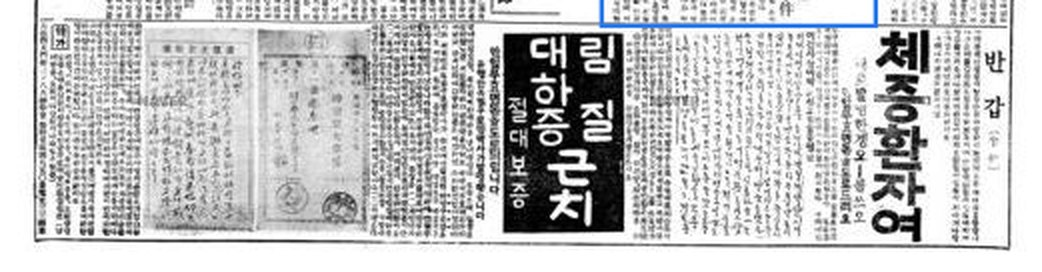
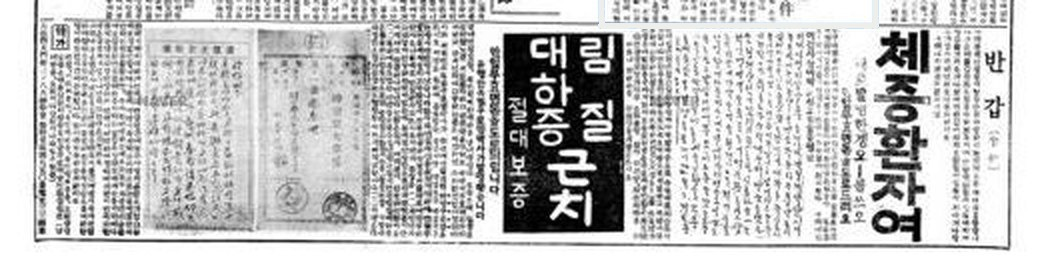
폰판 지면 장치에 「아래칸 · 그날의 광고」 넣음 · 1931.8.13 광고칸의 파란 선 지움
Claude-Session: https://claude.ai/code/session_01X1y5x5ur2CZT5SHiYxRsCA

Changed region(s): [[0.5528, 0.0, 0.8599, 0.1176]]

diff --git a/yk-mbook.js b/yk-mbook.js
@@ -130,8 +130,18 @@
         h = '<div class="pp-hd"><small>' + (cfg.sec || '사회면') + ' | ' + t0(a.d) + ' | ' + t0(a.day) + '</small>' + (a.mark ? '<i class="stamp">' + a.mark + '</i>' : '') + '</div>' +
           '<div class="mb-seg pp-seg three"><button data-m="scan" class="' + (mode === 'scan' ? 'on' : '') + '">원문 지면</button><button data-m="now" class="' + (mode === 'now' ? 'on' : '') + '">오늘 말로 읽기</button><button data-m="sum" class="' + (mode === 'sum' ? 'on' : '') + '">간추려 읽기</button></div>';
         if (mode === 'scan') {
-          h += '<button class="pp-scan" type="button" data-zoom="' + src + '" data-cap="동아일보 ' + a.date + ' 원문 지면"><img src="' + src + '" alt="동아일보 ' + a.date + ' 원문 지면"><span>눌러 크게 보기</span></button>' +
-            '<p class="pp-cap">원 긔사 · 동아일보 · ' + cfg.era + ' ' + t0(a.d) + ' — 테두리 친 곳이 그날 실린 긔사이오.</p>';
+          var key = String(a.img).replace(/\.[a-z]+$/, '').replace(/_0\d$/, ''), AD = cfg.ads && cfg.ads[String(a.img).replace(/\.[a-z]+$/, '')];
+          h += '<div class="pp-scanbox"><button class="pp-scan" type="button" data-zoom="' + src + '" data-cap="동아일보 ' + a.date + ' 원문 지면"><img src="' + src + '" alt="동아일보 ' + a.date + ' 원문 지면"><span>눌러 크게 보기</span></button>' +
+            (AD ? '<button type="button" class="pp-cut" style="top:' + (AD.top * 100) + '%;height:' + (AD.h * 100) + '%" data-goad>아래칸 · 그날의 광고 ▾</button>' : '') + '</div>' +
+            '<p class="pp-cap">원 긔사 · 동아일보 · ' + cfg.era + ' ' + t0(a.d) + ' — 테두리 친 곳이 그날 실린 긔사이오.' + (AD ? ' 붉은 절취선 안은 가튼 장 맨 아래칸의 광고요.' : '') + '</p>';
+          if (AD) {
+            var y = a.date.slice(0, 4), m = +a.date.slice(5, 7), dd = +a.date.slice(8, 10);
+            h += '<section class="pp-ad" id="ppAd"><h4>아래칸 · 그날의 광고</h4><p class="pp-ad-k">그날, 가튼 장 아래칸 · ' + y + '년 ' + m + '월 ' + dd + '일 · 동아일보</p>' +
+              '<button type="button" class="pp-adimg" data-zoom="' + AD.img + '" data-cap="' + y + '년 ' + m + '월 ' + dd + '일 지면 맨 아래칸 광고"><img src="' + AD.img + '" alt="' + y + '년 ' + m + '월 ' + dd + '일 지면 아래칸 광고" loading="lazy"><span>눌러 크게 보기</span></button>' +
+              '<p class="pp-ad-cap">' + (AD.cap || (y + '년 ' + m + '월 ' + dd + '일 지면, 그 맨 아래칸이오. 가튼 날 가튼 장에 실린 진짜 광고들이오.')) + '</p>' +
+              '<p class="pp-ad-say">' + (AD.say || '가튼 장 우에선 사건을 쫏고, 아래칸에선 물건을 팔앗소.') + '</p>' +
+              (cfg.shop ? '<a class="pp-ad-go" href="' + cfg.shop + '">그 시절 광고 상뎜으로 →</a>' : '') + '</section>';
+          }
         } else if (mode === 'sum') {
           var Q = ['이 보도의 요뎜은 무엇이오?', '그때 형편은 엇더하엿소?', '긔록에서 눈여겨볼 대목은 어대요?'];
           h += '<article class="pp-art pp-short"><p class="pp-sec">간추려 읽기 · ' + t0(a.d) + '</p><h3>' + a.title + '</h3><ol class="pp-sum big">' + a.sum.map(function (x) { return '<li>' + x + '</li>'; }).join('') + '</ol>' +
@@ -169,7 +179,8 @@
     D.addEventListener('click', function (e) {
       var t = e.target.closest('#ppTabs button'); if (t) { I = +t.dataset.i; render(); return; }
       var m = e.target.closest('.pp-seg button'); if (m) { mode = m.dataset.m; render(); return; }
-      if (e.target.closest('#ppBody [data-next]')) { I = Math.min(A.length - 1, I + 1); render(); }
+      if (e.target.closest('#ppBody [data-next]')) { I = Math.min(A.length - 1, I + 1); render(); return; }
+      if (e.target.closest('#ppBody [data-goad]')) { e.preventDefault(); e.stopPropagation(); var ad = $('#ppAd'), bd = $('#ppBody'); if (ad) bd.scrollTo({ top: ad.offsetTop - 10, behavior: 'smooth' }); }
     });
     W.addEventListener('mb:open', function (e) { if (e.detail === 'shPaper') render(); });
     paintN();

diff --git a/yk-mbook.css b/yk-mbook.css
@@ -373,3 +373,19 @@ html.mb-lock,html.mb-lock body{overflow:hidden}
 .pp-qa b{display:inline-grid;place-items:center;width:22px;height:22px;margin-right:8px;background:var(--ink);color:#fff;font:700 11px/1 var(--sans)}
 .pp-qa p b{background:var(--red)}
 .pp-qa p{padding:0 0 14px;font:400 15px/1.8 var(--sans)!important}
+/* 아래칸 · 그날의 광고 */
+.pp-scanbox{position:relative}
+.pp-cut{position:absolute;left:1.5%;width:97%;border:2px dashed var(--red);background:rgba(179,38,30,.07);display:flex;align-items:flex-start;justify-content:flex-end;padding:0;z-index:2}
+.pp-cut::after{content:"";}
+.pp-cut{font:700 11px/1 var(--sans);color:#fff;letter-spacing:.06em}
+.pp-cut{color:transparent}
+.pp-cut::before{content:"✂ 아래칸 · 그날의 광고 ▾";position:absolute;right:-2px;top:-24px;padding:6px 8px;background:var(--red);color:#fff;font:700 11px/1 var(--sans);letter-spacing:.06em;white-space:nowrap}
+.pp-ad{margin-top:22px;padding:16px 14px 18px;border:2px dashed var(--red);background:#fff}
+.pp-ad h4{margin:0 0 4px!important;color:var(--red)}
+.pp-ad-k{font:500 11px/1.5 var(--sans);color:var(--mute);margin-bottom:10px}
+.pp-adimg{position:relative;display:block;width:100%}
+.pp-adimg img{width:100%;filter:grayscale(1) contrast(1.12)}
+.pp-adimg span{position:absolute;right:6px;bottom:6px;padding:5px 7px;background:rgba(14,14,14,.85);color:#fff;font:500 10.5px/1 var(--sans)}
+.pp-ad-cap{margin-top:12px;font:400 14px/1.8 var(--serif);color:#222}
+.pp-ad-say{margin-top:10px;padding-left:12px;border-left:3px solid var(--red);font:700 15px/1.7 var(--serif)}
+.pp-ad-go{display:inline-block;margin-top:14px;font:500 12.5px/1 var(--sans);color:var(--ink);border-bottom:1px solid var(--ink);padding-bottom:3px;text-decoration:none}

diff --git a/case-jukcheomjeong/m-jk-book.js b/case-jukcheomjeong/m-jk-book.js
@@ -103,7 +103,12 @@
   var IMG = './image/Jukcheomjeong/';
 
   /* 第二章 · 일곱 날의 지면 (공통 장치) */
-  W.mb.paper({ arts: ARTS, words: WORDS, imgBase: IMG + 'articles-toned/', era: '소화 팔 년', goto: 'ch5',
+  var ADB = '../assets/ads/day/jk_';
+  W.mb.paper({ arts: ARTS, words: WORDS, imgBase: IMG + 'articles-toned/', era: '소화 팔 년', goto: 'ch5', shop: '../shop.html#underside',
+    ads: { '19330517': { top: .665, h: .325, img: ADB + '19330517_band.jpg', cap: '죽첨정 사건이 처음 실린 오월 십칠일 지면, 그 맨 아래칸이오. 카메라 · 필름 광고와 「당선 사례」 광고가 열 칸 넘게 줄지어 잇소.', say: '가튼 장 우에선 범인을 쫓고, 아래에선 당선을 감사햇소.' },
+      '19330518': { top: .74, h: .24, img: ADB + '19330518_band.jpg' }, '19330519': { top: .82, h: .16, img: ADB + '19330519_band.jpg' },
+      '19330525': { top: .76, h: .22, img: ADB + '19330525_band.jpg' }, '19330602': { top: .78, h: .20, img: ADB + '19330602_band.jpg' },
+      '19330603': { top: .78, h: .19, img: ADB + '19330603_band.jpg' } },
     sealHead: '유월 팔일자 지면은,<br>호외에서 뜨드시압.', sealText: '이 날의 말은 모아 둔 말들과 함께 第五章 號外에서 드러나오.', sealBtn: '第五章 號外로 →' });
   /* ════ 第四章 · 스물세 날 ════ */
   var DATES = ['5.16','5.17','5.18','5.19','5.20','5.21','5.22','5.23','5.24','5.25','5.26','5.27','5.28','5.29','5.30','5.31','6.1','6.2','6.3','6.4','6.5','6.6','6.7','6.8'];

diff --git a/case-maria/m-mr-book.js b/case-maria/m-mr-book.js
@@ -276,7 +276,11 @@
 
   /* ════ 第四話 · 여섯 날의 지면 (공통 장치) ════ */
   ARTS.forEach(function (a, i) { a.hook = HOOK[i]; });
-  W.mb.paper({ arts: ARTS, imgBase: './img/scan/', era: '소화 륙 년' });
+  var ADB = '../assets/ads/day/mr_';
+  W.mb.paper({ arts: ARTS, imgBase: './img/scan/', era: '소화 륙 년', shop: '../shop.html#underside',
+    ads: { '19310813': { top: .79, h: .19, img: ADB + '19310813_band.jpg' },
+      '19310902': { top: .795, h: .16, img: ADB + '19310902_band.jpg', cap: '일홈 업는 투서가 수사를 다시 움직엿다는 구월 이일 지면, 그 맨 아래칸이오. 「박사의 약」 · 「후미나인」 같은 약 광고가 줄지어 잇소.', say: '가튼 장 우에선 범인을 다시 쫏고, 아래칸은 약을 팔앗소.' },
+      '19310916': { top: .81, h: .17, img: ADB + '19310916_band.jpg' } } });
 
   var tone = function (k) { if (W.mb.tone) W.mb.tone(k); };
   /* 글자를 한 자씩 (깜빡임 업시) */

diff --git a/case-maria/m.html b/case-maria/m.html
@@ -10,7 +10,7 @@
 <title>경성야록 · 부산 마리아 참살사건</title>
 <link rel="icon" type="image/svg+xml" href="./favicon.svg">
 <link rel="stylesheet" href="../case-jukcheomjeong/fonts/fonts.css">
-<link rel="stylesheet" href="../yk-mbook.css?v=4">
+<link rel="stylesheet" href="../yk-mbook.css?v=5">
 <link rel="stylesheet" href="./m-mr-book.css?v=3">
 </head>
 <body data-bgm="../case/audio/maria/maria-bg.mp3" data-bell="../case-jukcheomjeong/audio/bell.mp3" data-whoosh="../case-jukcheomjeong/audio/whoosh.mp3">
@@ -578,8 +578,8 @@
 </div>
 
 <script src="./m-mr-ko.js?v=1"></script>
-<script src="../yk-mbook.js?v=4"></script>
-<script src="./m-mr-book.js?v=3"></script>
+<script src="../yk-mbook.js?v=5"></script>
+<script src="./m-mr-book.js?v=4"></script>
 <script src="../yk-reward.js?v=9"></script>
 </body>
 </html>

diff --git a/case-jukcheomjeong/m.html b/case-jukcheomjeong/m.html
@@ -10,7 +10,7 @@
 <title>경성야록 · 죽첨정 골목의 어린 주검</title>
 <link rel="icon" type="image/svg+xml" href="./favicon.svg">
 <link rel="stylesheet" href="./fonts/fonts.css">
-<link rel="stylesheet" href="../yk-mbook.css?v=4">
+<link rel="stylesheet" href="../yk-mbook.css?v=5">
 <link rel="stylesheet" href="./m-jk-book.css?v=3">
 </head>
 <body data-bgm="./audio/Key_to_the_Consulate.mp3" data-bell="./audio/bell.mp3" data-whoosh="./audio/whoosh.mp3">
@@ -360,8 +360,8 @@
 </div>
 
 <script src="./m-jk-ko.js?v=1"></script>
-<script src="../yk-mbook.js?v=4"></script>
-<script src="./m-jk-book.js?v=3"></script>
+<script src="../yk-mbook.js?v=5"></script>
+<script src="./m-jk-book.js?v=4"></script>
 <script src="../yk-reward.js?v=9"></script>
 </body>
 </html>
